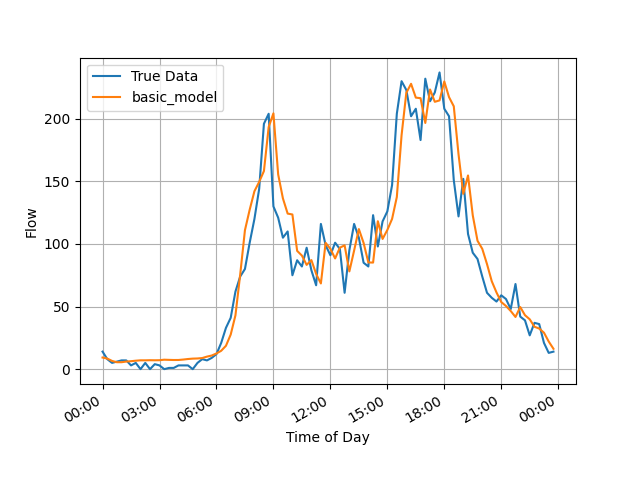
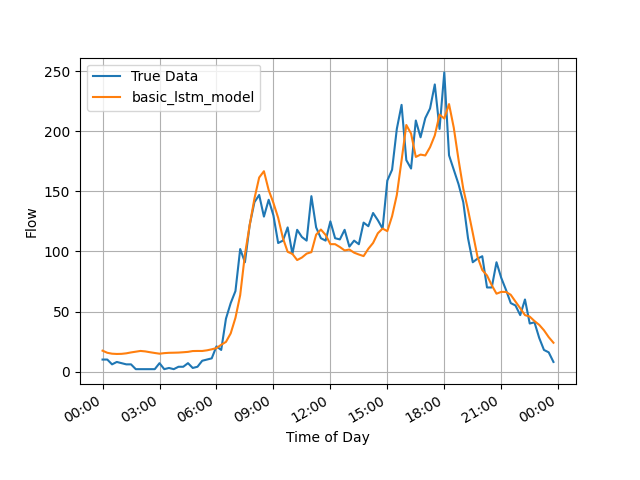
Add secondary model

Changed region(s): [[0.0625, 0.125, 0.9062, 0.7812], [0.0625, 0.2188, 0.125, 0.2812], [0.0625, 0.125, 0.125, 0.1562]]

diff --git a/models.py b/models.py
@@ -1,9 +1,19 @@
 from model.model_manager import ModelManager
 from model.nn_model import Model
 
+# TODO add a models table to the database to keep track of them instead
+
+# and then we can have smart init that doesn't overwrite the models table unless the data is missing
+
+# TODO add smart caching so you don't have to pre-process the model
+# maybe at least as an option
 
 model_manager = ModelManager()
 
 basic_model = Model.load("./saved_models/basic_model.keras")
 
 model_manager.add_model(basic_model)
+
+lstm = Model.load("./saved_models/basic_lstm_model.keras")
+
+model_manager.add_model(lstm)

diff --git a/main.py b/main.py
@@ -14,7 +14,7 @@ lstm_units = [12, 64, 64, 1]
 gru_units = [12, 64, 64, 1]
 saes_units = [12, 400, 400, 400, 1]
 
-basic_model = Model(ModelBuilder.get_gru(gru_units), "basic_model")
+basic_model = Model(ModelBuilder.get_lstm(gru_units), "basic_lstm_model")
 
 CSV = "./data/vic/ScatsOctober2006.csv"
 
